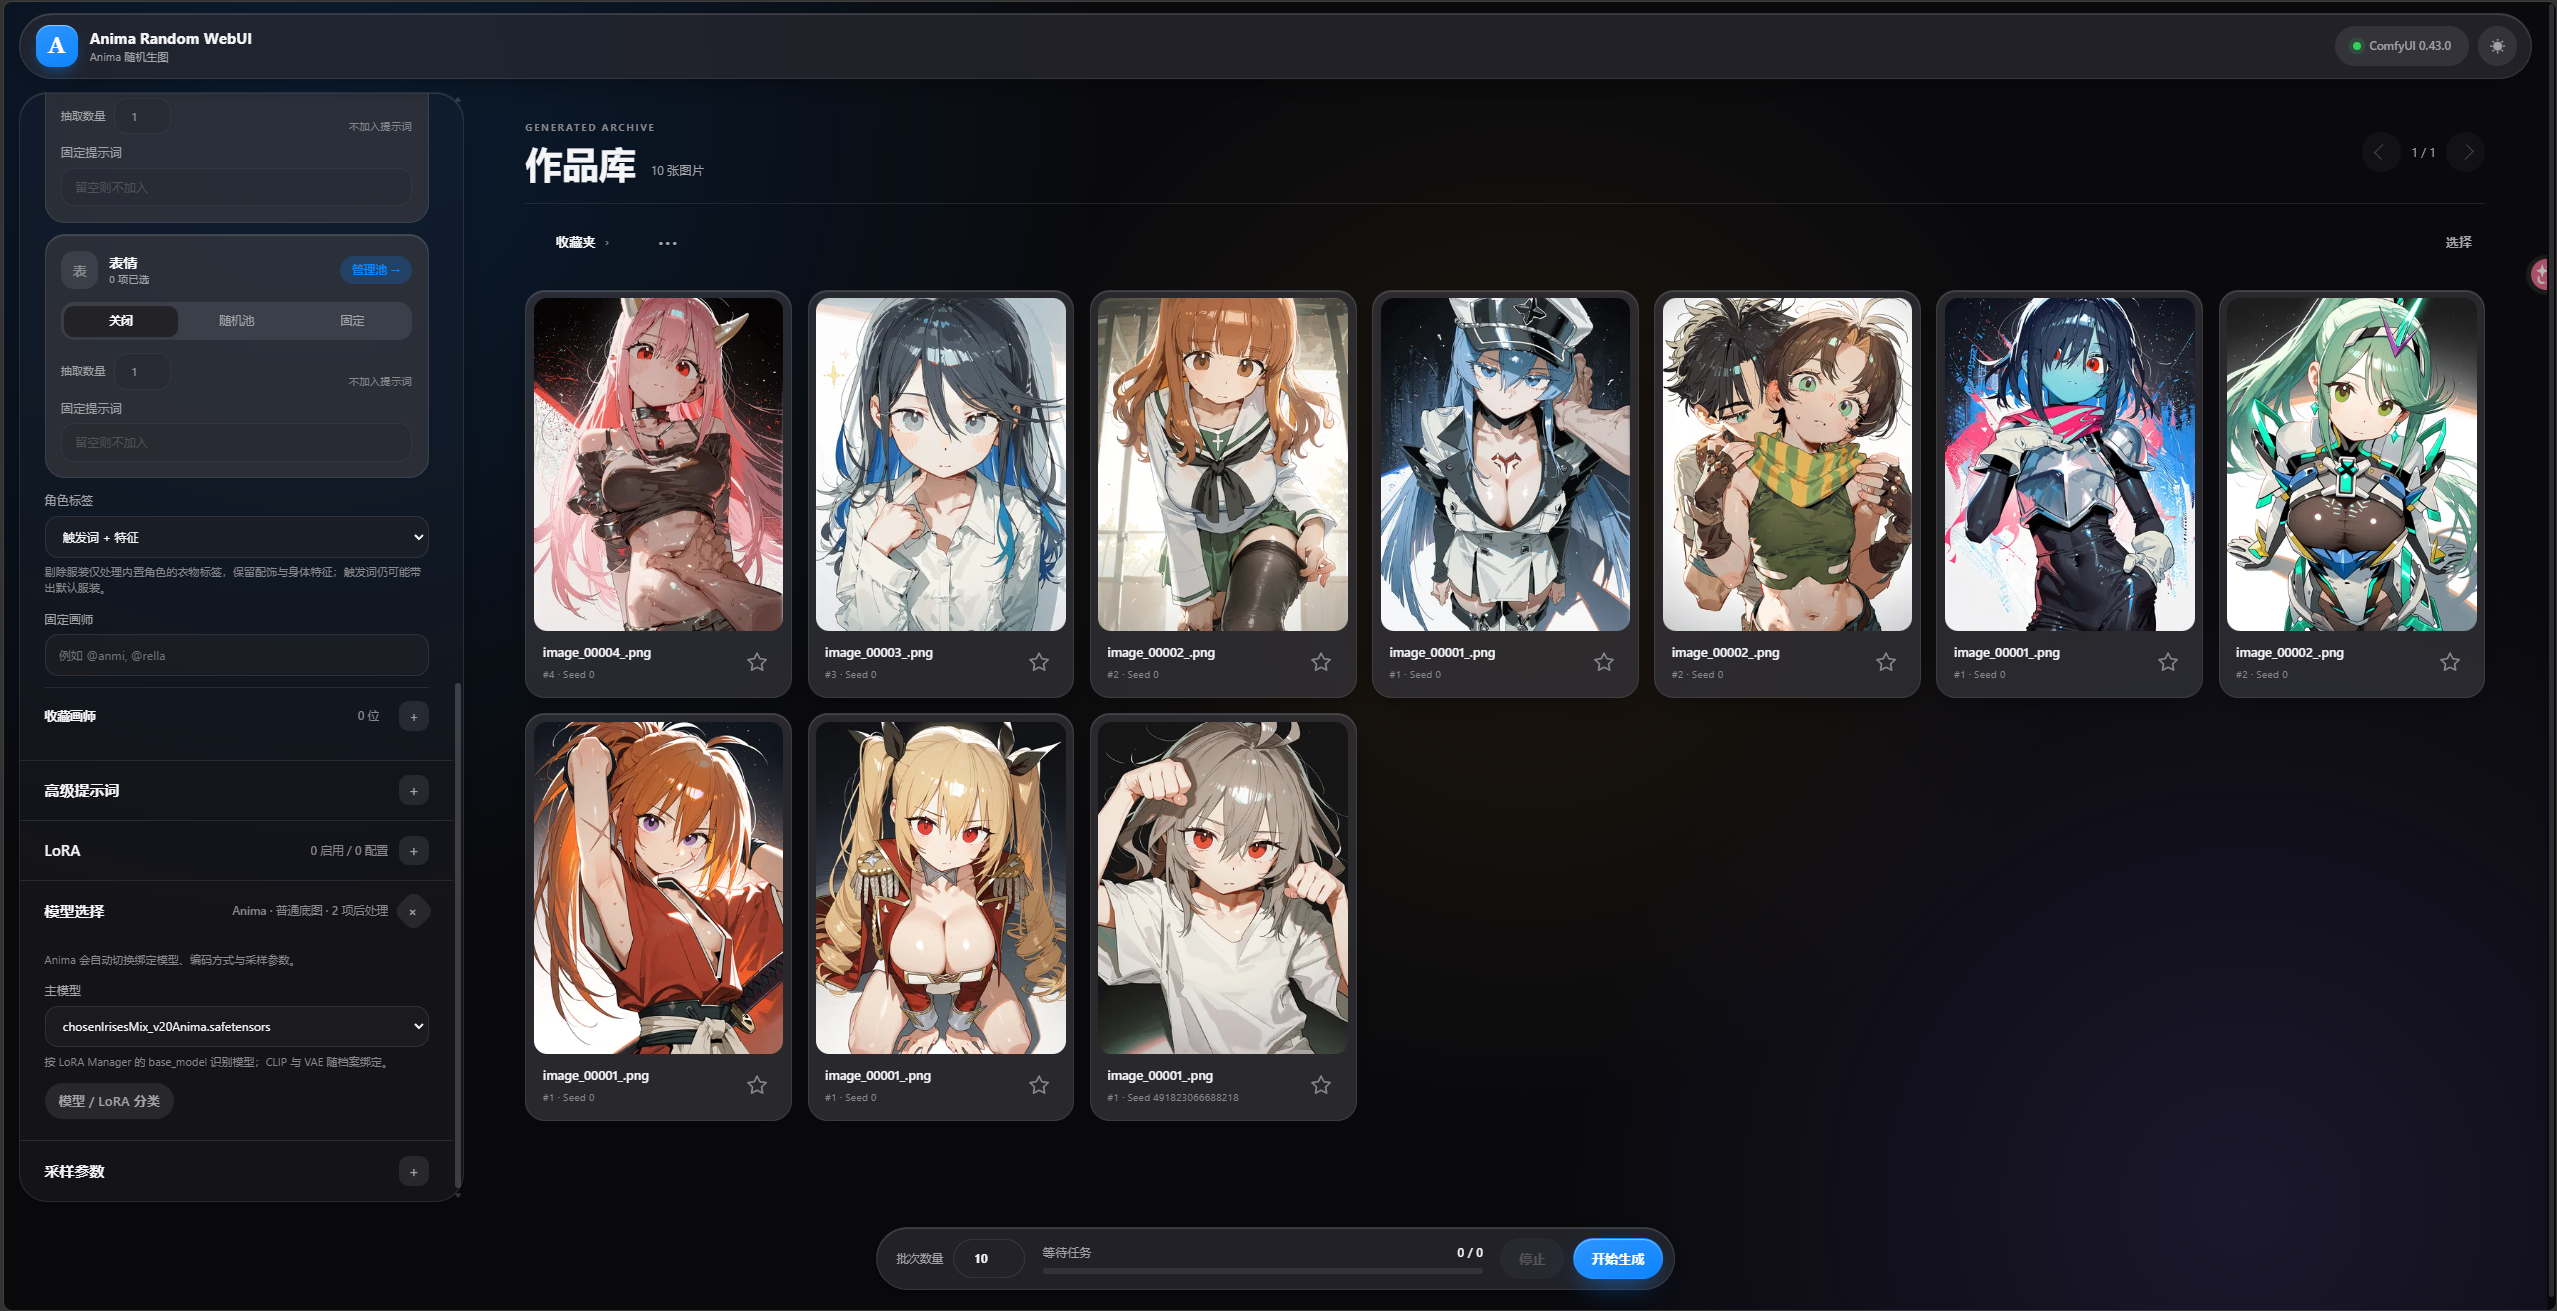
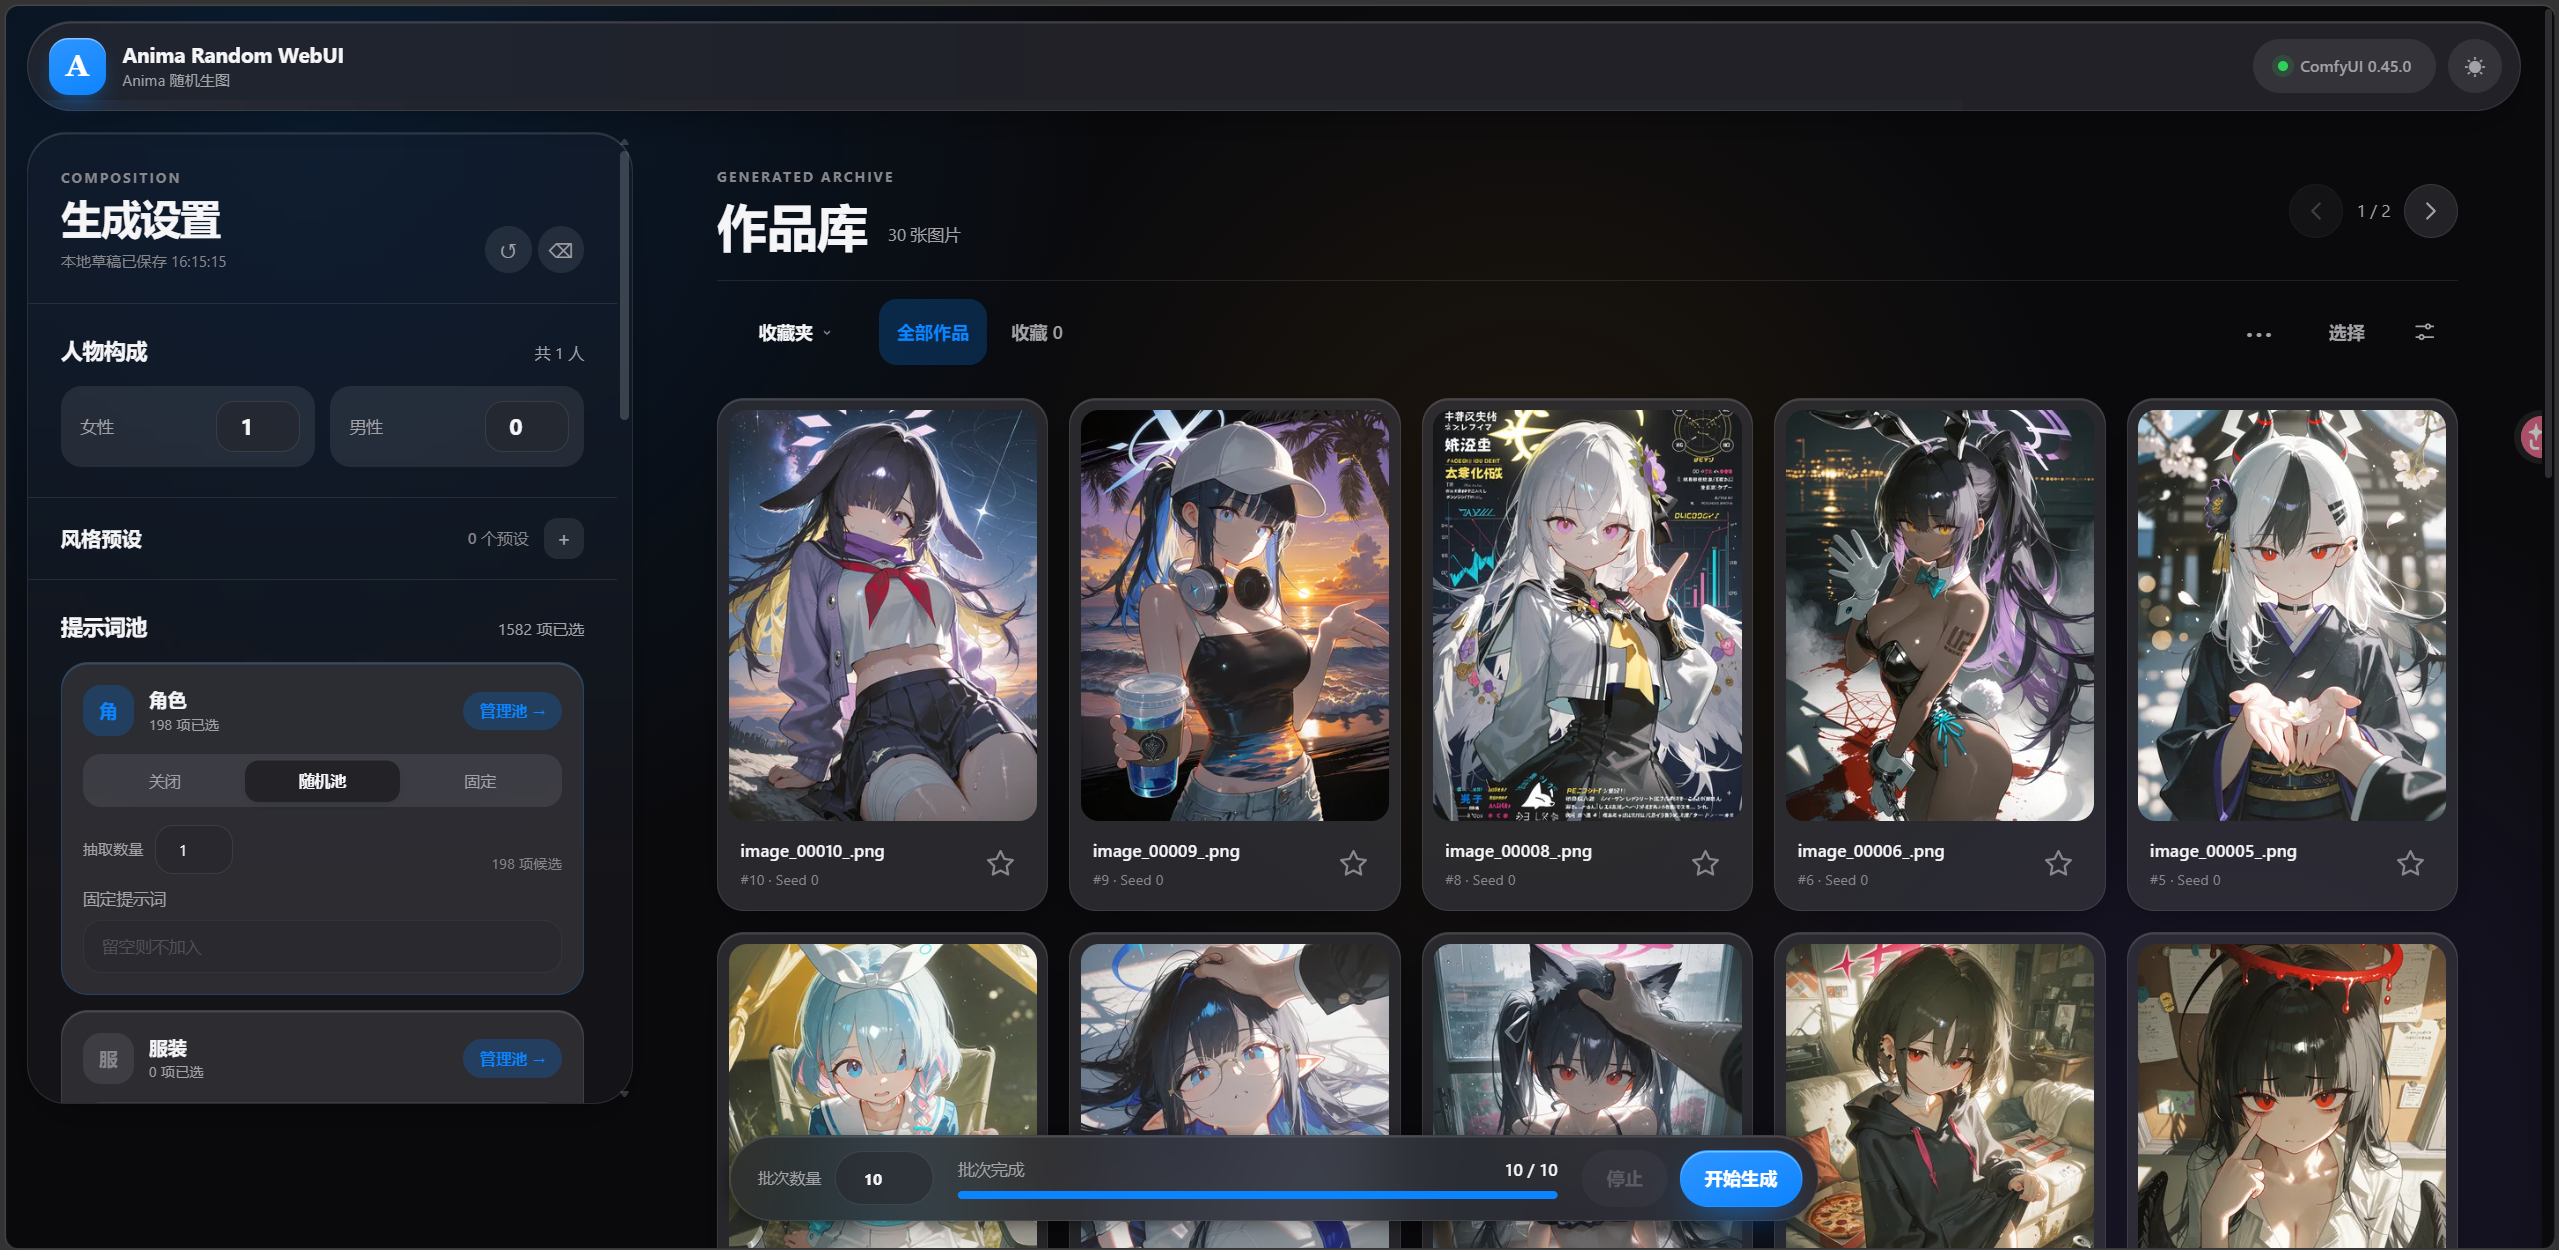
release: publish Anima Random WebUI 0.2.0 with dependency guide

diff --git a/scripts/build_release.py b/scripts/build_release.py
@@ -30,6 +30,7 @@ DOCUMENTS = frozenset({
     "docs/guide.md", "docs/dependencies.md",
     "docs/readme/random-workbench.png", "docs/readme/prompt-pool.png",
     "docs/readme/lora-manager.png", "docs/readme/app-icon.png",
+    "docs/readme/artwork-filters.png",
 })
 TEMPLATES = frozenset({
     "templates/workflow_api_v2.json", "templates/workflow_ui_v2.json",

diff --git a/RELEASE_NOTES.md b/RELEASE_NOTES.md
@@ -1,6 +1,6 @@
 # Anima Random WebUI 0.2.0
 
-2026-11-15 · 本地源码更新，尚未创建 GitHub Release。
+2026-11-15 · 源码发行版 · 标签 `anima-webui-v0.2.0`
 
 从 [Comfy Image Atelier `602e74f`](https://github.com/159159pzy-crypto/comfy-Image-Atelier/commit/602e74f1d1747bdd8a050d3c2358dc86f2a7bb60) 迁入适用于 Anima 随机台的更新。保持源码启动、独立个人数据及默认端口 8191，继续排除 Krea 2、单图台、图生图、AI 助手、图片反推和 EXE 启动器。
 
@@ -23,10 +23,23 @@
 ## 升级注意
 
 1. 停止 WebUI，备份整个个人数据目录及 ComfyUI 原图；将浏览器草稿保留在原站点端口。
-2. 使用本次本地交付的 0.2.0 源码，安装更新后的项目 Python 依赖。GitHub 已发布的 0.1.1 不包含本次更新。本次本机环境中的 KJNodes 与配套资源扩展已可用，无需重新安装；其他环境按 [README 安装步骤](README.md#开始使用)检查，缺失时补齐节点及其依赖。配套扩展检查通过即可复用，仅需安装或更新时正常关闭 ComfyUI，再按文档执行安装命令并自行启动。
+2. 从 [0.2.0 Release](https://github.com/159159pzy-crypto/comfyui-random-image-generation/releases/tag/anima-webui-v0.2.0) 下载源码包，或将 Git 工作目录更新到标签 `anima-webui-v0.2.0`，然后安装更新后的项目 Python 依赖。推荐让 Agent 按 [README 安装步骤](README.md#开始使用)检查并补齐节点、模型与依赖；已有可用的 KJNodes 及配套资源扩展直接复用。配套扩展仅需安装或更新时，正常关闭 ComfyUI，再按文档执行安装命令并重新启动。
 3. 词库及预设结构升级前自动备份。**新旧预设统一默认不携带尺寸与放大修复**；需要时重新捕获并勾选，旧保存值可从迁移备份找回。
 
 已有兼容扩展直接复用；脚本不会升级或重启 ComfyUI，不覆盖用户修改，不重复注册同名扩展。LoRA 收藏、标签、备注、触发词覆盖、人物绑定及使用统计仍仅存本项目，不写回共享插件。
+
+## 安装与文档
+
+- README 明确提示需要单独运行 ComfyUI，推荐让 Agent 协助安装，并提供可复制的安装提示词。
+- 列出必需插件、实际节点名、三模型目录和 Python 依赖，区分默认双采样与可选后处理；普通底图也需要 KJNodes，不使用 LoRA 时仍需要 LoRA Manager。
+- 基础词库自动发现支持常见 Windows 便携版布局；多份独立词库或路径无效时明确提示，避免静默选错。
+- 更新随机工作台截图，新增作品筛选截图，并随源码包提供。
+
+## 下载与校验
+
+- `AnimaRandomWebUI-0.2.0-source.zip`：可安装运行的源码包。
+- `SHA256SUMS.txt`：源码包的 SHA-256 校验值。
+- `build-info.json`：对应的版本、Git 提交及源码包哈希。
 
 源码包包含运行代码、配套扩展、安装入口及用户文档，不包含个人数据、模型、虚拟环境和开发测试。完整 Git 仓库内的 `docs/acceptance-2026-11-15.md` 记录本次实际检查与 GPU 验收范围。
 

diff --git a/docs/guide.md b/docs/guide.md
@@ -2,7 +2,7 @@
 
 ## 1. 源码安装与启动
 
-本次 0.2.0 使用本地交付的源码目录或源码 ZIP，尚未发布到 GitHub Release。项目在独立 Python 虚拟环境运行，要求 Python 3.11+。Windows 脚本完整命令见 [README 安装步骤](../README.md#3-安装并启动本项目)；也可以手动完成相同操作：
+从 [0.2.0 Release](https://github.com/159159pzy-crypto/comfyui-random-image-generation/releases/tag/anima-webui-v0.2.0) 下载源码 ZIP，或将完整 Git 工作目录更新到标签 `anima-webui-v0.2.0`。项目在独立 Python 虚拟环境运行，要求 Python 3.11+，并需要单独启动本机 ComfyUI。推荐让 Agent 按 [README 安装步骤](../README.md#安装前先看)完成环境检查和安装；Windows 脚本完整命令见 [安装并启动本项目](../README.md#3-安装并启动本项目)，也可以手动完成相同操作：
 
 ```powershell
 # 替换为你的解压目录

diff --git a/docs/acceptance-2026-11-15.md b/docs/acceptance-2026-11-15.md
@@ -1,6 +1,6 @@
 # 0.2.0 本地迁移验收
 
-验收日期：2026-11-15。目标目录：`F:\animarandom`。本次只准备本地源码与源码包，未推送 GitHub、创建标签或发布 Release。
+验收日期：2026-11-15。目标目录：`F:\animarandom`。本页记录最初的本地迁移验收，当时仅准备源码与源码包；后续 GitHub 发布信息见 [0.2.0 Release](https://github.com/159159pzy-crypto/comfyui-random-image-generation/releases/tag/anima-webui-v0.2.0)。下列测试结果与 GPU 验收范围对应迁移验收阶段。
 
 ## 来源与范围
 
